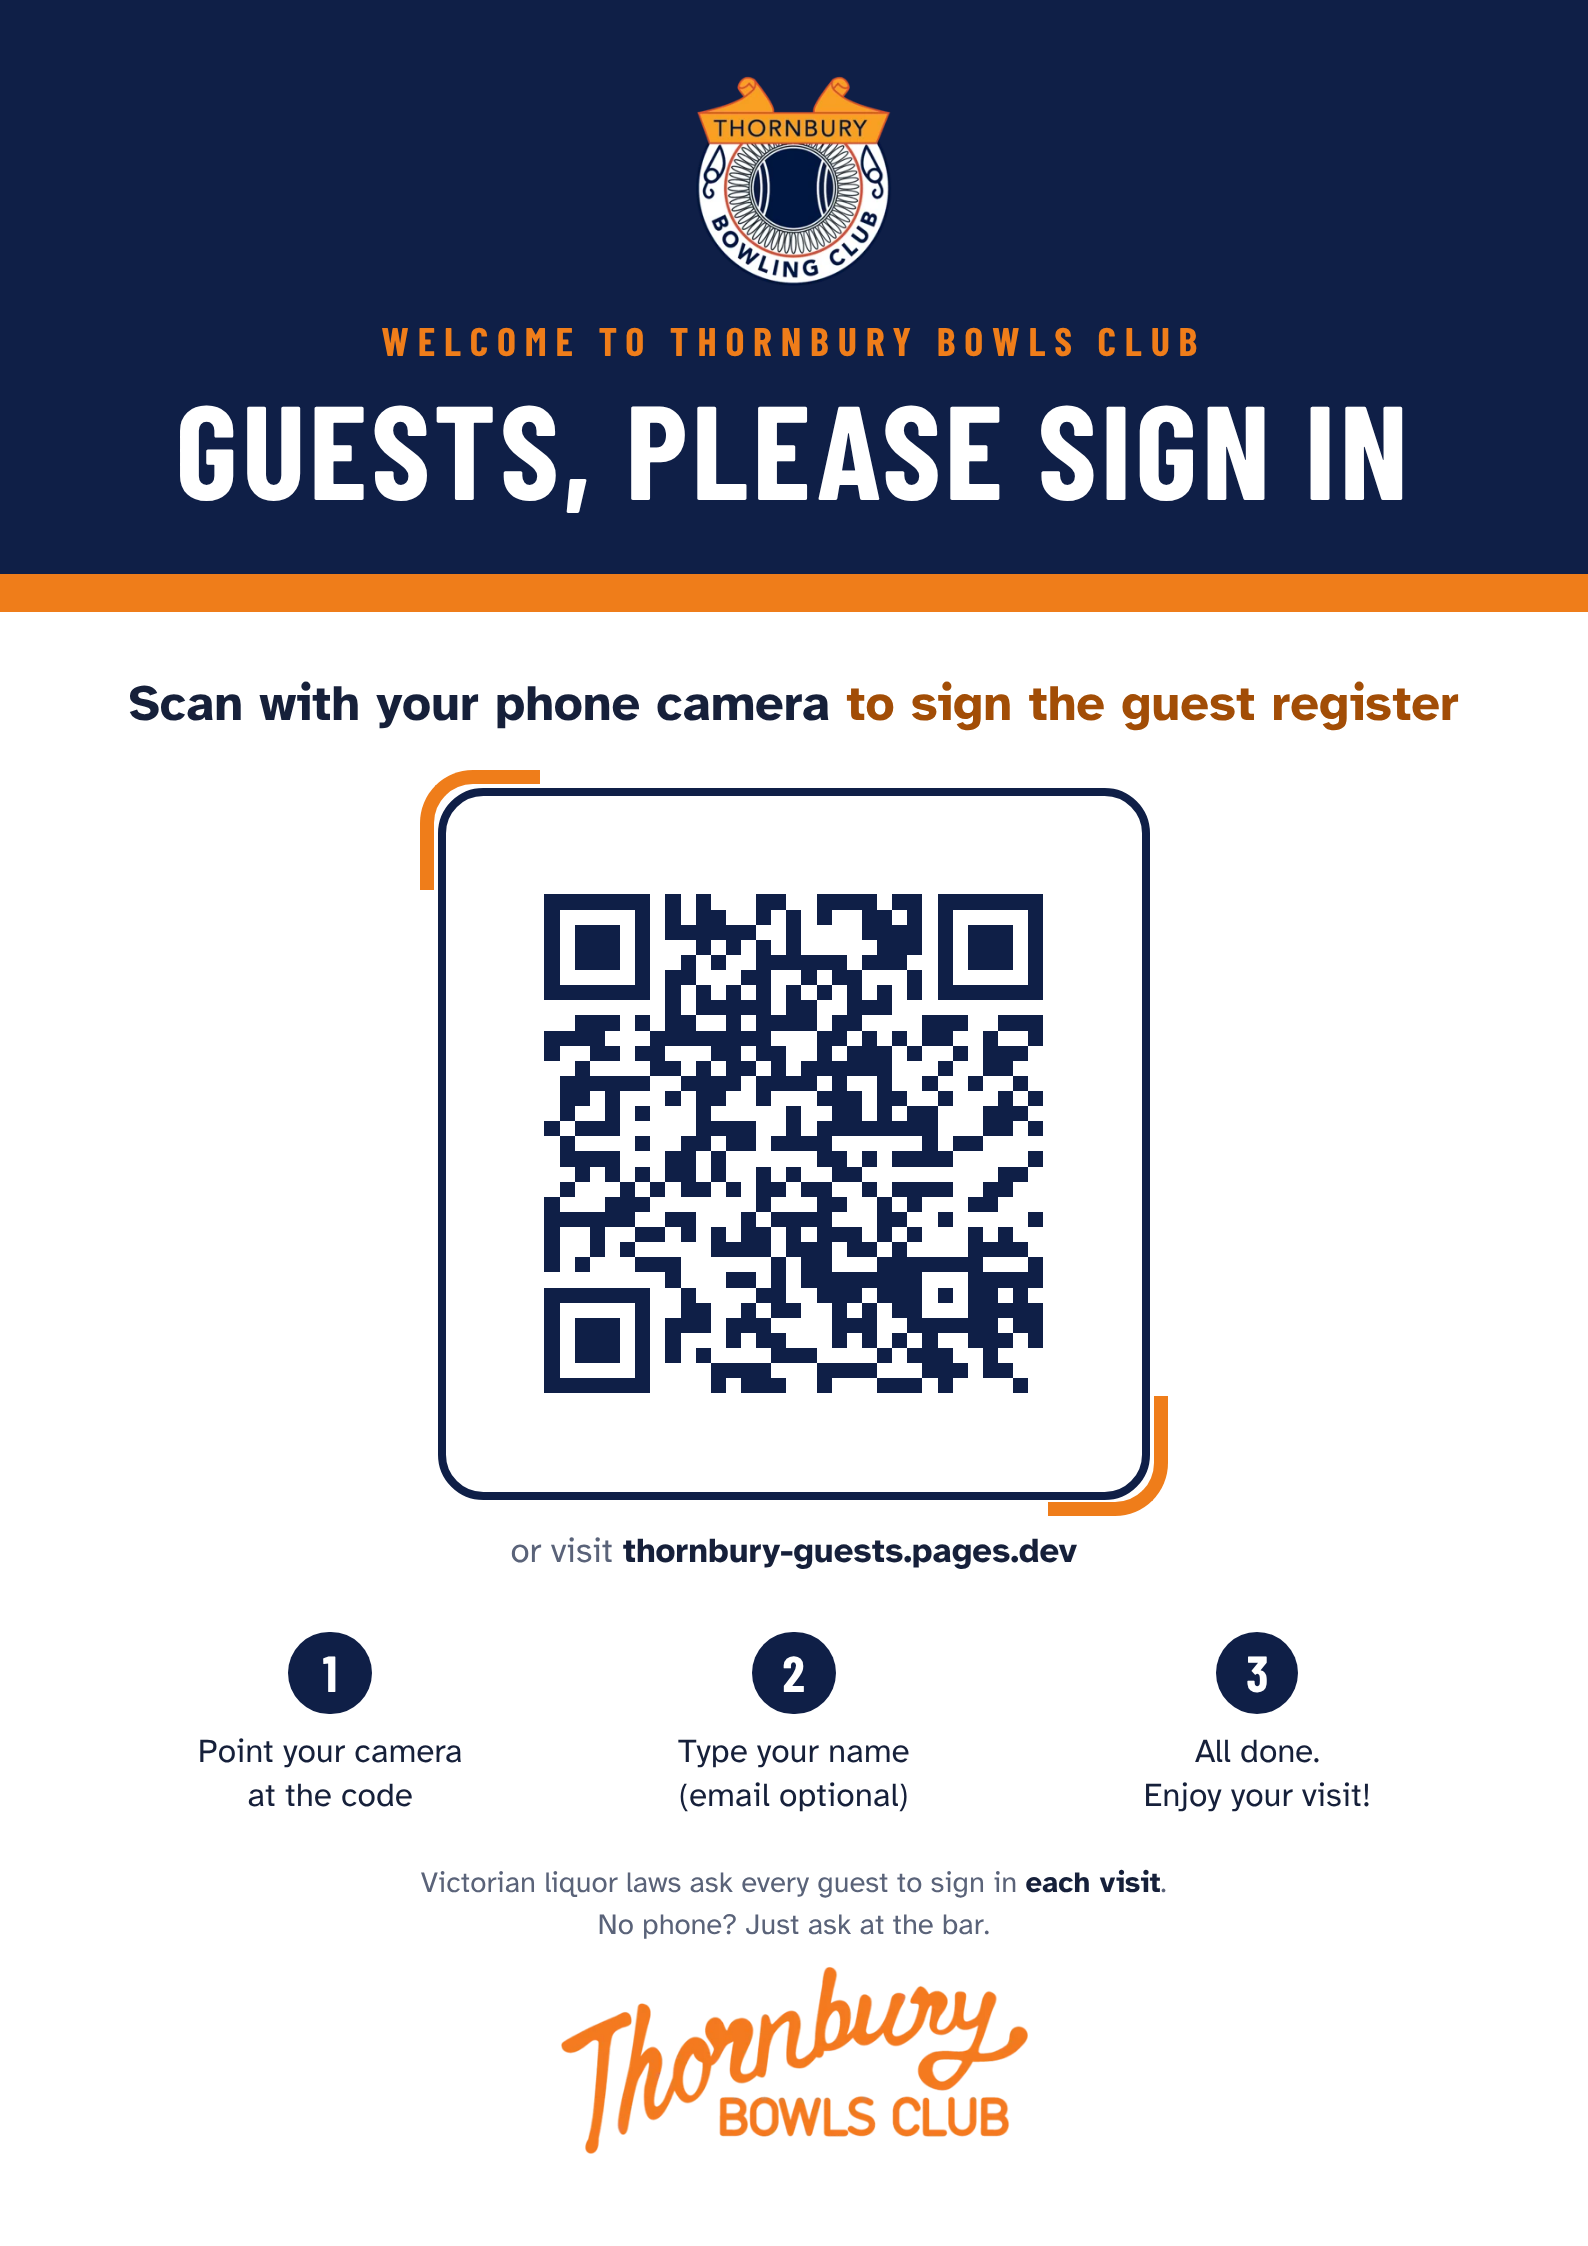
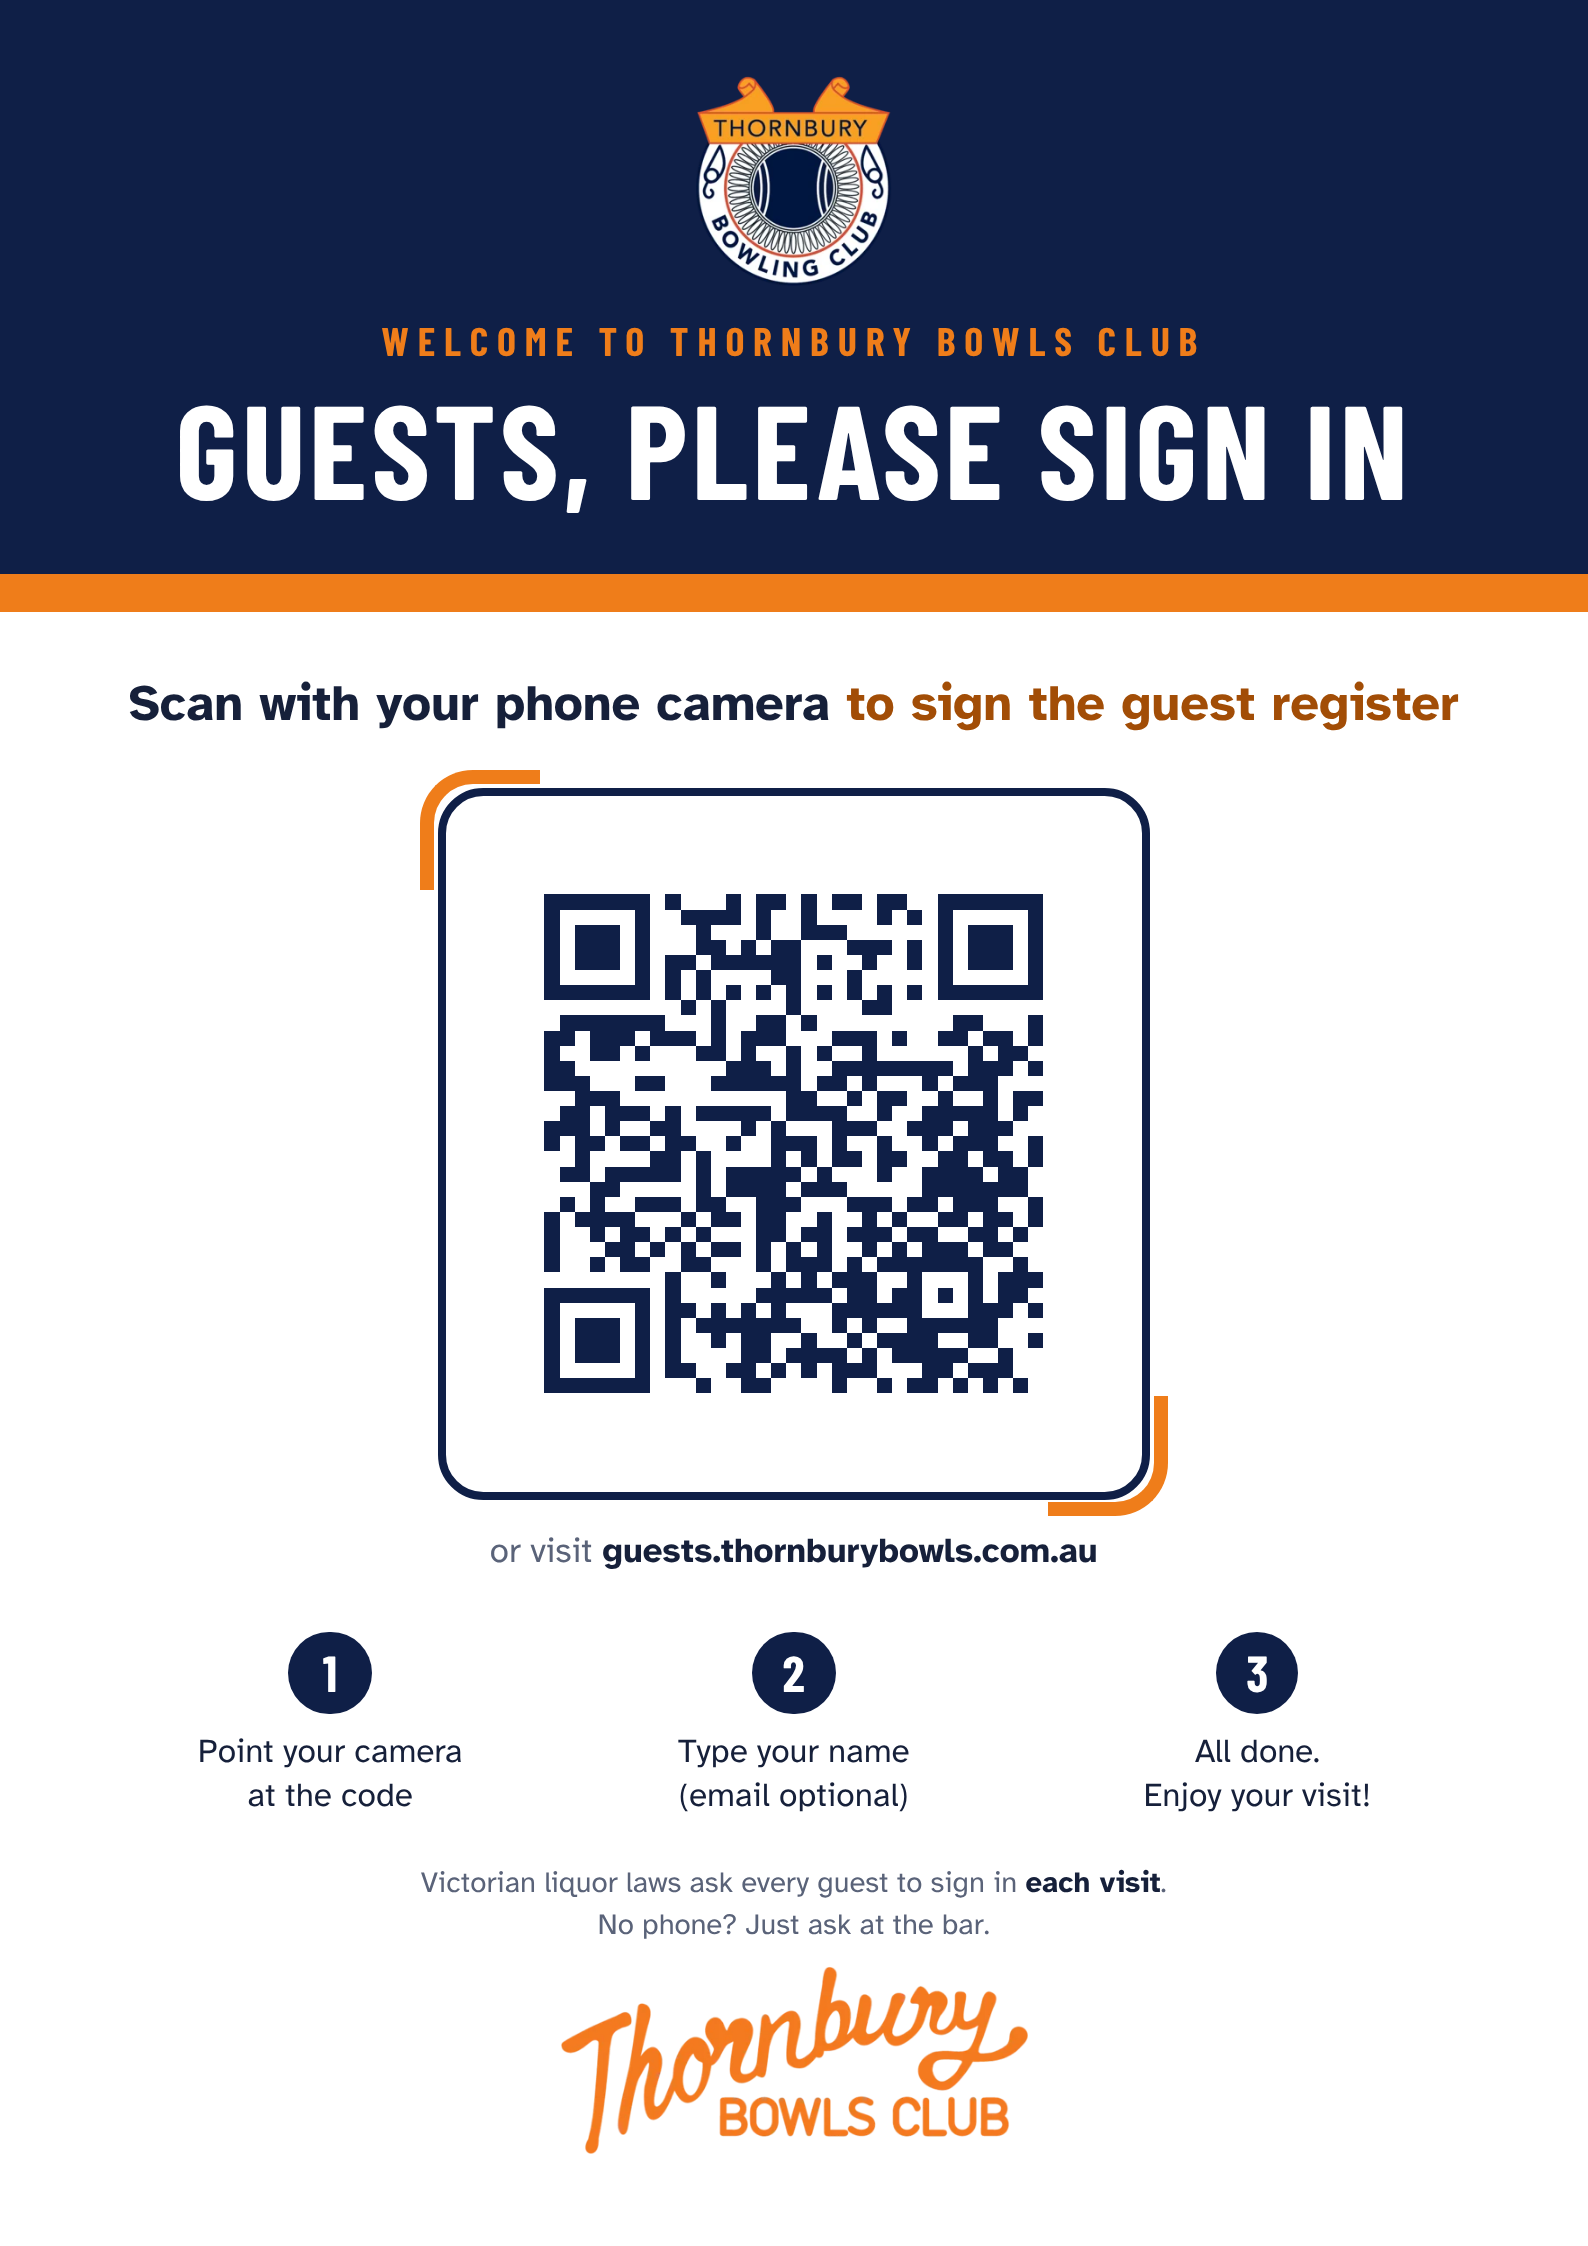
Point guest poster at guests.thornburybowls.com.au
Claude-Session: https://claude.ai/code/session_01L2vLEFnUgA4DcroWAjXhdB

Changed region(s): [[0.3394, 0.374, 0.6788, 0.6233], [0.3086, 0.6857, 0.6788, 0.7168]]

diff --git a/poster/build_poster.py b/poster/build_poster.py
@@ -1,7 +1,7 @@
 """Build the guest sign-in QR poster (A4 PDF + PNG preview).
 
 Usage:
-    python3 poster/build_poster.py https://thornbury-guests.pages.dev
+    python3 poster/build_poster.py https://guests.thornburybowls.com.au
 
 Needs Python 3 with Playwright and Google Chrome (or Playwright's Chromium).
 If the guest page ever moves to a new address, run this again and reprint.
@@ -92,7 +92,7 @@ h1{{font-family:Barlow;font-size:50pt;line-height:1;letter-spacing:.03em;text-tr
 
 
 def main() -> None:
-    url = sys.argv[1] if len(sys.argv) > 1 else "https://thornbury-guests.pages.dev"
+    url = sys.argv[1] if len(sys.argv) > 1 else "https://guests.thornburybowls.com.au"
     out = HERE / "guest-signin-poster"
     page_html = HERE / "guest-signin-poster.html"
     page_html.write_text(poster_html(url), encoding="utf-8")

diff --git a/README.md b/README.md
@@ -55,7 +55,7 @@ and a "keep me posted" tick for club news. The database adds the visit date (the
 | --- | --- | --- |
 | Guest page | `guest/` → its own Cloudflare Pages project, `thornbury-guests` | `index.html` for guests; `register.html` for moderators to view, print, download or delete sign-ins |
 | Database | Same Supabase project, table `guest_visits` | Set up with `supabase/04_guest_register.sql` |
-| Poster | `poster/guest-signin-poster.pdf` | A4. Rebuild with `python3 poster/build_poster.py <address>` if the address changes |
+| Poster | `poster/guest-signin-poster.pdf` | A4, QR → `https://guests.thornburybowls.com.au`. Rebuild with `python3 poster/build_poster.py <address>` if the address changes |
 
 Who can do what: anyone with the link can **add** a sign-in; nobody can read sign-ins from the
 public page. Tram Depot **moderators** can read and delete them on `register.html` (same emailed
@@ -67,11 +67,14 @@ public page. Tram Depot **moderators** can read and delete them on `register.htm
 2. **Website.** Cloudflare → **Workers & Pages** → **Create** → **Pages** → **Connect to Git** →
    `thornbury-bowls-club` / `tram-depot`. Project name **`thornbury-guests`**, production branch `main`,
    framework preset **None**, build command *(empty)*, build output directory **`guest`** → Save and Deploy.
-3. **Check the address** is `https://thornbury-guests.pages.dev`. If Cloudflare gave a different one,
-   rebuild the poster with that address before printing.
+3. **Check the address** is `https://thornbury-guests.pages.dev` (used in step 5).
 4. **Test** on a phone: scan the poster, sign in as a guest, then open `/register.html`, sign in as a
    moderator and check the entry appears (delete it afterwards).
-5. **Print** `poster/guest-signin-poster.pdf` (A4, or enlarge to A3) and keep the paper register at the
+5. **Club web address.** In Cloudflare → `thornbury-guests` → **Custom domains** → add
+   `guests.thornburybowls.com.au`. Then in cPanel → **Zone Editor** → `thornburybowls.com.au` → add a
+   **CNAME** record: name `guests`, value `thornbury-guests.pages.dev`. Wait for Cloudflare to show **Active**.
+   The poster's QR code points to `https://guests.thornburybowls.com.au`.
+6. **Print** `poster/guest-signin-poster.pdf` (A4, or enlarge to A3) and keep the paper register at the
    bar for guests without a phone.
 
 ### Settings
